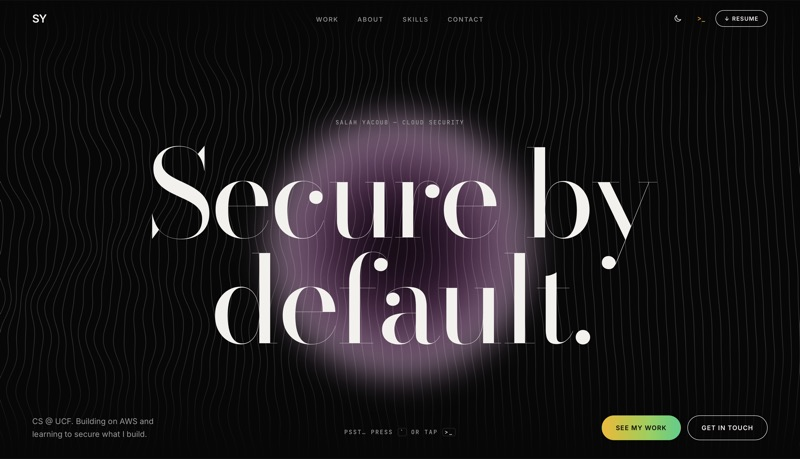
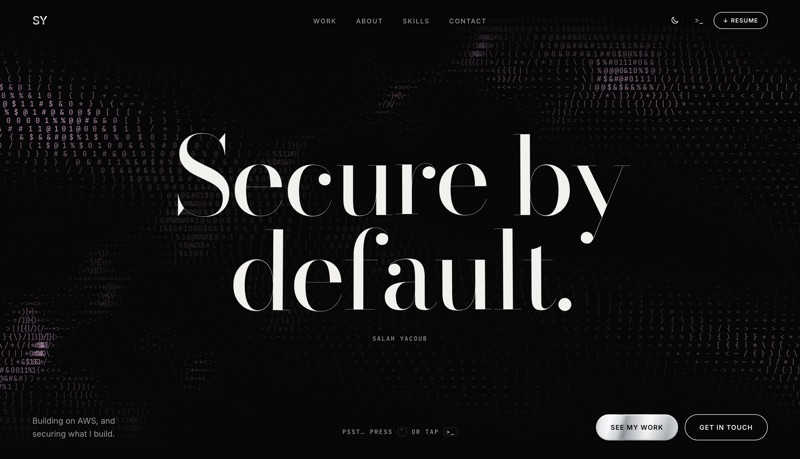
Galleries: new Knightro and portfolio shots; refreshed hero + work preview
- Knightro: live desktop view leads the gallery
- Portfolio: current glyph-sea hero (replaces the old line-field shot),
  the skills architecture map, and CTF stage 2 in the terminal
- Selected Work hover preview for This Portfolio now shows the new hero
- Screenshots resized to 1600px JPEG with metadata stripped

diff --git a/portfolio.html b/portfolio.html
@@ -91,9 +91,17 @@
         <section class="pblock pblock--gallery" id="gallery" aria-labelledby="gallery-h">
           <h2 class="label pblock__h" id="gallery-h"><span class="pblock__n">06</span>Gallery</h2>
           <div class="gallery">
-          <figure class="gallery__item gallery__item--wide">
-            <a href="assets/projects/portfolio/hero.jpg" target="_blank" rel="noopener"><img src="assets/projects/portfolio/hero.jpg" alt="The hero line field" width="1600" height="918" loading="lazy" decoding="async"></a>
-            <figcaption class="label">The hero line field</figcaption>
+          <figure class="gallery__item">
+            <a href="assets/projects/portfolio/hero.jpg?v=2"><img src="assets/projects/portfolio/hero.jpg?v=2" alt="The hero: a sea of terminal symbols that wakes behind your cursor" width="1600" height="917" loading="lazy" decoding="async"></a>
+            <figcaption class="label">The hero: a sea of terminal symbols that wakes behind your cursor</figcaption>
+          </figure>
+          <figure class="gallery__item">
+            <a href="assets/projects/portfolio/skills-map.jpg"><img src="assets/projects/portfolio/skills-map.jpg" alt="Skills as an architecture map of the real pipelines" width="1600" height="735" loading="lazy" decoding="async"></a>
+            <figcaption class="label">Skills as an architecture map of the real pipelines</figcaption>
+          </figure>
+          <figure class="gallery__item">
+            <a href="assets/projects/portfolio/ctf-stage2.jpg"><img src="assets/projects/portfolio/ctf-stage2.jpg" alt="The terminal CTF, stage 2: spotting the over-permissive IAM statement" width="1600" height="841" loading="lazy" decoding="async"></a>
+            <figcaption class="label">The terminal CTF, stage 2: spotting the over-permissive IAM statement</figcaption>
           </figure>
           </div>
         </section>

diff --git a/knightro.html b/knightro.html
@@ -93,6 +93,10 @@
         <section class="pblock pblock--gallery" id="gallery" aria-labelledby="gallery-h">
           <h2 class="label pblock__h" id="gallery-h"><span class="pblock__n">06</span>Gallery</h2>
           <div class="gallery">
+          <figure class="gallery__item">
+            <a href="assets/projects/knightro/live-desktop.jpg"><img src="assets/projects/knightro/live-desktop.jpg" alt="The live app on desktop: sightings, likely events and a 2x bounty zone" width="1600" height="810" loading="lazy" decoding="async"></a>
+            <figcaption class="label">The live app on desktop: sightings, likely events and a 2x bounty zone</figcaption>
+          </figure>
           <figure class="gallery__item gallery__item--wide">
             <a href="assets/projects/knightro/map.jpg" target="_blank" rel="noopener"><img src="assets/projects/knightro/map.jpg" alt="The live campus map" width="1600" height="921" loading="lazy" decoding="async"></a>
             <figcaption class="label">The live campus map</figcaption>

diff --git a/index.html b/index.html
@@ -106,7 +106,7 @@
       <div class="preview" id="preview" aria-hidden="true">
         <img src="assets/previews/photo-site.jpg" data-key="photo-site" alt="" width="800" height="462" decoding="async">
         <img src="assets/previews/knightro-tracker.jpg" data-key="knightro-tracker" alt="" width="800" height="460" decoding="async">
-        <img src="assets/previews/this-portfolio.jpg" data-key="this-portfolio" alt="" width="800" height="459" decoding="async">
+        <img src="assets/previews/this-portfolio.jpg?v=2" data-key="this-portfolio" alt="" width="800" height="459" decoding="async">
       </div>
     </section>
 
